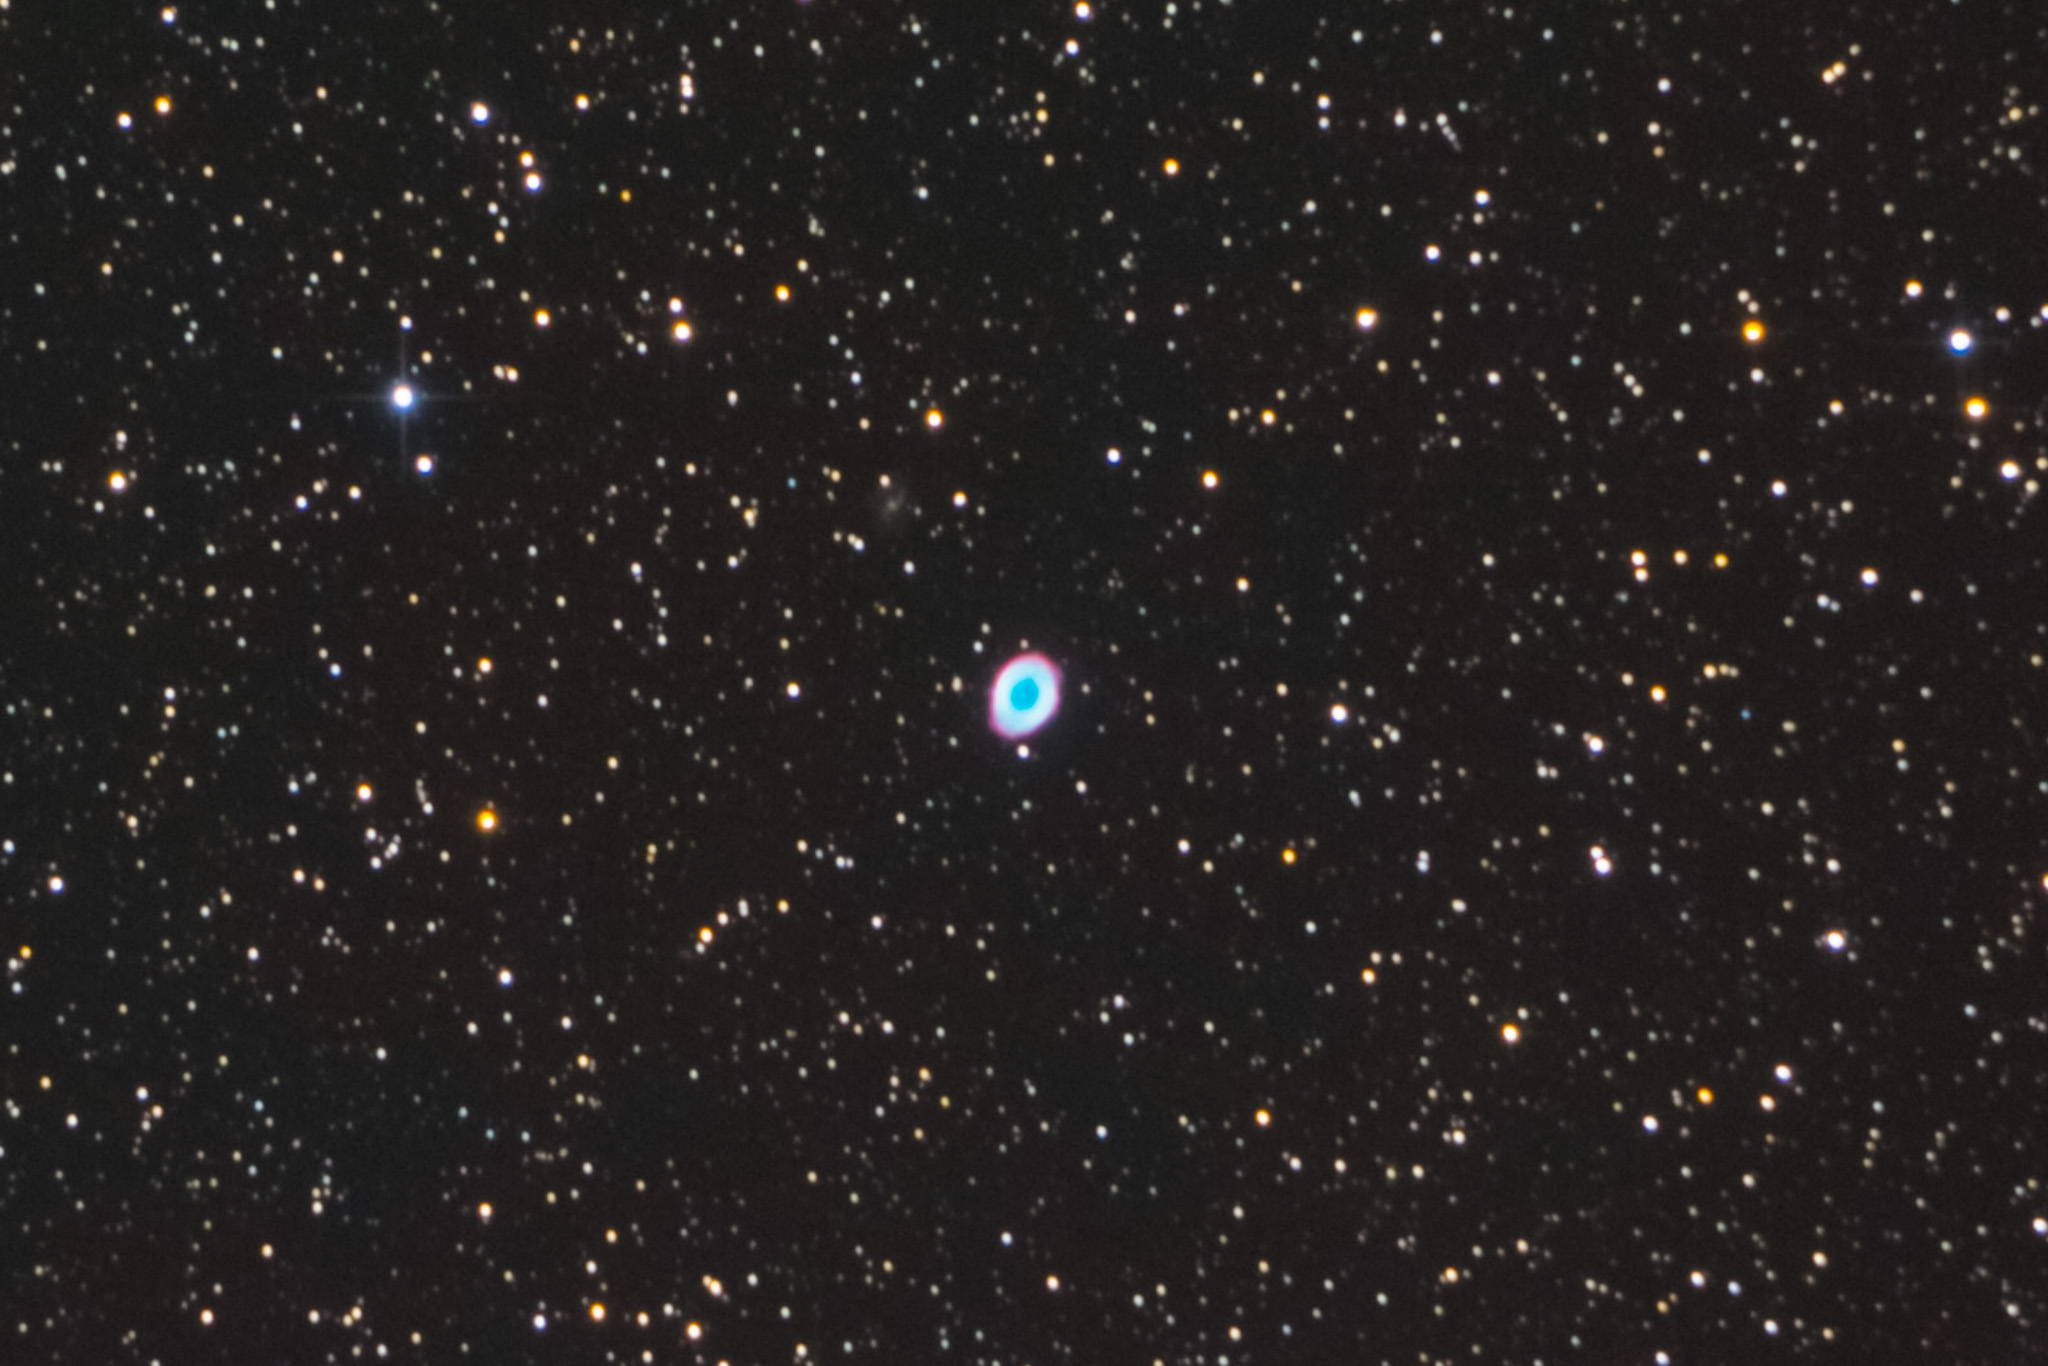
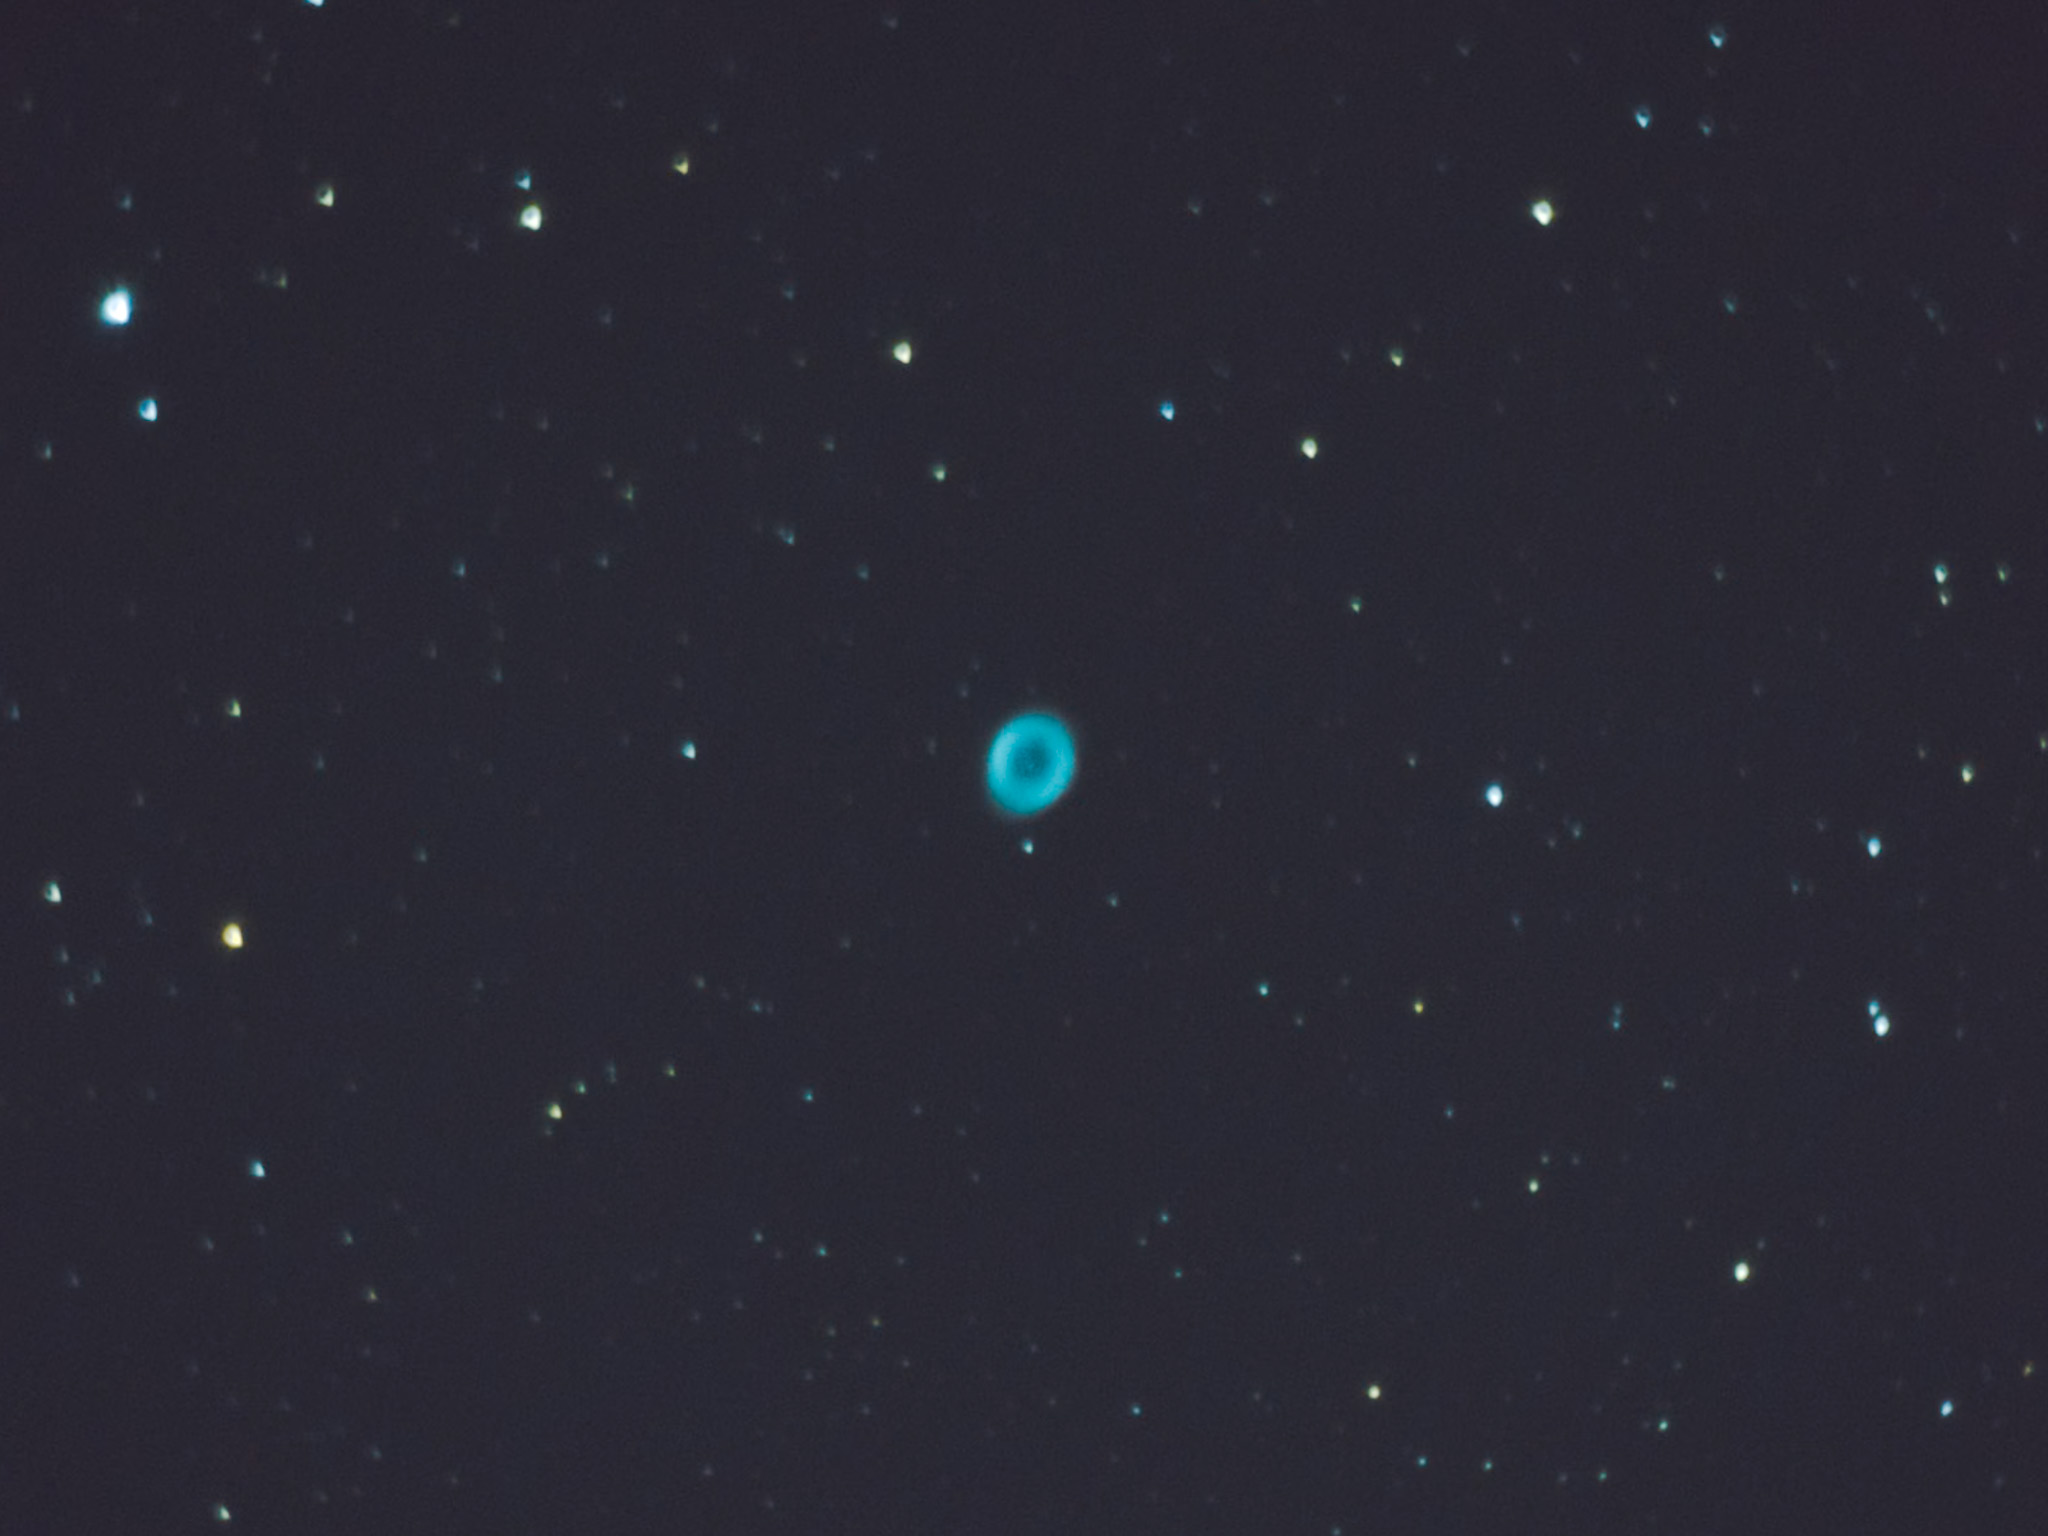
add pic

diff --git a/astrophotography.html b/astrophotography.html
@@ -263,23 +263,6 @@
 		</div>
 	</div>
 
-	<!-- Lemmon -->
-	<div id="fh5-astrophoto">
-		<div class="container">
-			<div class="col-md-6 animate-box">
-				<h2>C/2025 A6<br>(レモン彗星)</h2>
-				<p>撮影地 : 大阪府</p>
-				<p>カメラ : Nikon D780</p>
-				<p>レンズ : SIGMA 150-600mm F5-6.3</p>
-				<p>赤道儀 : Skymemo S</p>
-				<p>編集ツール : Adobe Photoshop/Lightroom</p>
-			</div>
-			<div class="astroimg col-md-6 animate-box">
-				<img class="astroimg img-responsive" width="90%" src="images/astrograph/C_2025A6_Lemmon.jpg">
-			</div>
-		</div>
-	</div>
-
 	<!-- Time lapse -->
 	<div id="fh5-astrophoto">
 		<div class="container">
@@ -602,6 +585,25 @@
 		</div>
 	</div>
 
+	<!-- M57 -->
+	<div id="fh5-astrophoto">
+		<div class="container">
+			<div class="col-md-6 animate-box">
+				<h2>環状星雲<br>（M57）</h2>
+				<p>星座 : こと座</p>
+				<p>種別 : 惑星状星雲</p>
+				<p>撮影地 : 奈良県</p>
+				<p>カメラ : Nikon D7500</p>
+				<p>望遠鏡 : Celestron C8</p>
+				<p>赤道儀 : Skywatcher HEQ5R-PRO</p>
+				<p>編集ツール : Adobe Photoshop/Lightroom</p>
+			</div>
+			<div class="astroimg col-md-6 animate-box">
+				<img class="astroimg img-responsive" width="90%" src="images/astrograph/M57.jpg">
+			</div>
+		</div>
+	</div>
+
 	<!-- M76 -->
 	<div id="fh5-astrophoto">
 		<div class="container">
@@ -683,7 +685,7 @@
 	<div id="fh5-astrophoto">
 		<div class="container">
 			<div class="col-md-6 animate-box">
-				<h2>網状星雲<br>（NGC6960）</h2>
+				<h2>網状星雲（西側）<br>（NGC6960）</h2>
 				<p>星座 : はくちょう座</p>
 				<p>種別 : 超新星残骸</p>
 				<p>撮影地 : 奈良県</p>
@@ -695,6 +697,62 @@
 			</div>
 			<div class="astroimg col-md-6 animate-box">
 				<img class="astroimg img-responsive" width="90%" src="images/astrograph/NGC6960.jpg">
+			</div>
+		</div>
+	</div>
+
+	<!-- 網状星雲 東側 -->
+	<div id="fh5-astrophoto">
+		<div class="container">
+			<div class="col-md-6 animate-box">
+				<h2>網状星雲（東側）<br>（NGC6992）</h2>
+				<p>星座 : はくちょう座</p>
+				<p>種別 : 超新星残骸</p>
+				<p>撮影地 : 奈良県</p>
+				<p>カメラ : Nikon D7500</p>
+				<p>望遠鏡 : Skywatcher BKP200（改造）</p>
+				<p>赤道儀 : Skywatcher EQ5</p>
+				<p>編集ツール1 : StellaImage 10</p>
+				<p>編集ツール2 : Adobe Photoshop/Lightroom</p>
+			</div>
+			<div class="astroimg col-md-6 animate-box">
+				<img class="astroimg img-responsive" width="90%" src="images/astrograph/NGC6992.jpg">
+			</div>
+		</div>
+	</div>
+
+	<!-- Lemmon -->
+	<div id="fh5-astrophoto">
+		<div class="container">
+			<div class="col-md-6 animate-box">
+				<h2>レモン彗星<br>（C/2025 A6）</h2>
+				<p>撮影地 : 大阪府</p>
+				<p>カメラ : Nikon D780</p>
+				<p>レンズ : SIGMA 150-600mm F5-6.3</p>
+				<p>赤道儀 : Skymemo S</p>
+				<p>編集ツール : Adobe Photoshop/Lightroom</p>
+			</div>
+			<div class="astroimg col-md-6 animate-box">
+				<img class="astroimg img-responsive" width="90%" src="images/astrograph/C_2025A6_Lemmon.jpg">
+			</div>
+		</div>
+	</div>
+
+	<!-- 10P Tempel -->
+	<div id="fh5-astrophoto">
+		<div class="container">
+			<div class="col-md-6 animate-box">
+				<h2>テンペル第二彗星<br>（10P/Tempel）</h2>
+				<p>種別 : 彗星</p>
+				<p>撮影地 : 奈良県</p>
+				<p>カメラ : Nikon D7500</p>
+				<p>望遠鏡 : Skywatcher C8</p>
+				<p>赤道儀 : Skywatcher HEQ5R-PRO</p>
+				<p>編集ツール1 : StellaImage 10</p>
+				<p>編集ツール2 : Adobe Photoshop/Lightroom</p>
+			</div>
+			<div class="astroimg col-md-6 animate-box">
+				<img class="astroimg img-responsive" width="90%" src="images/astrograph/10P.jpg">
 			</div>
 		</div>
 	</div>
